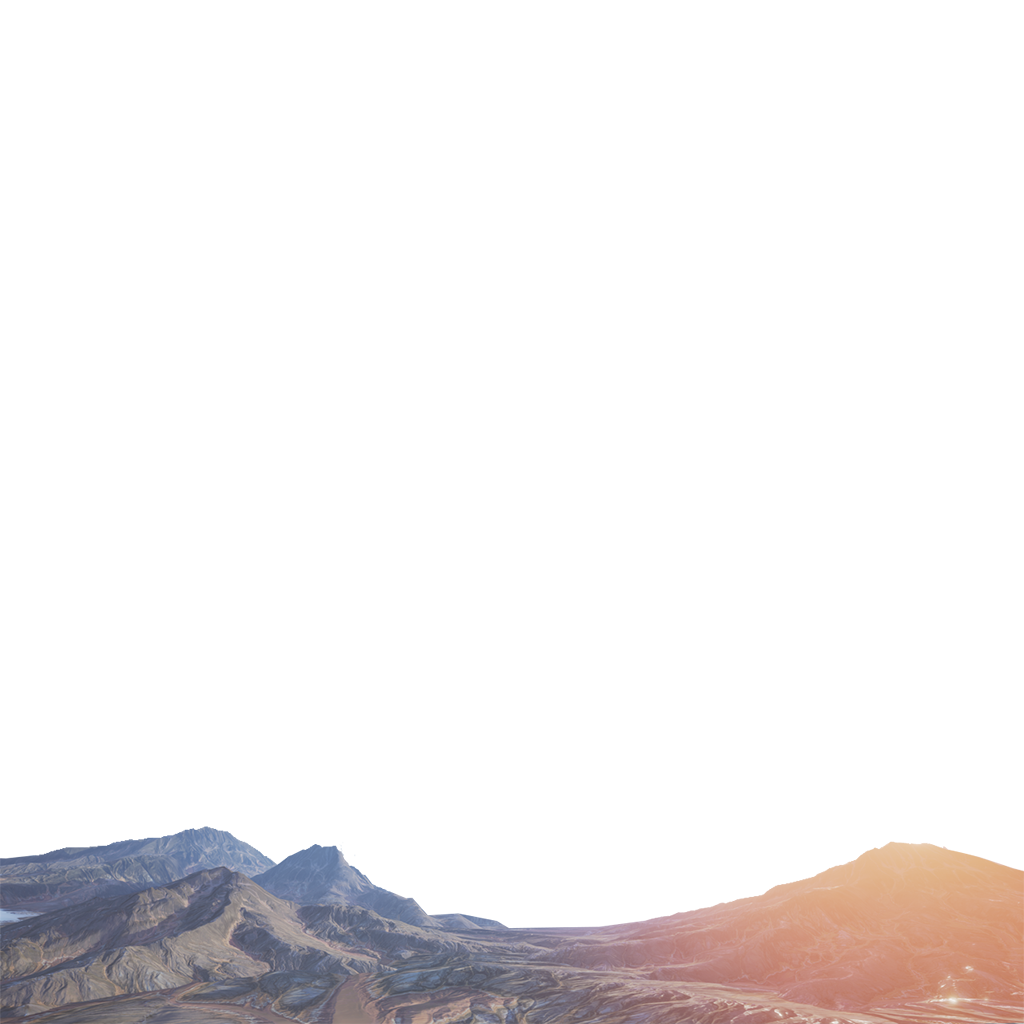
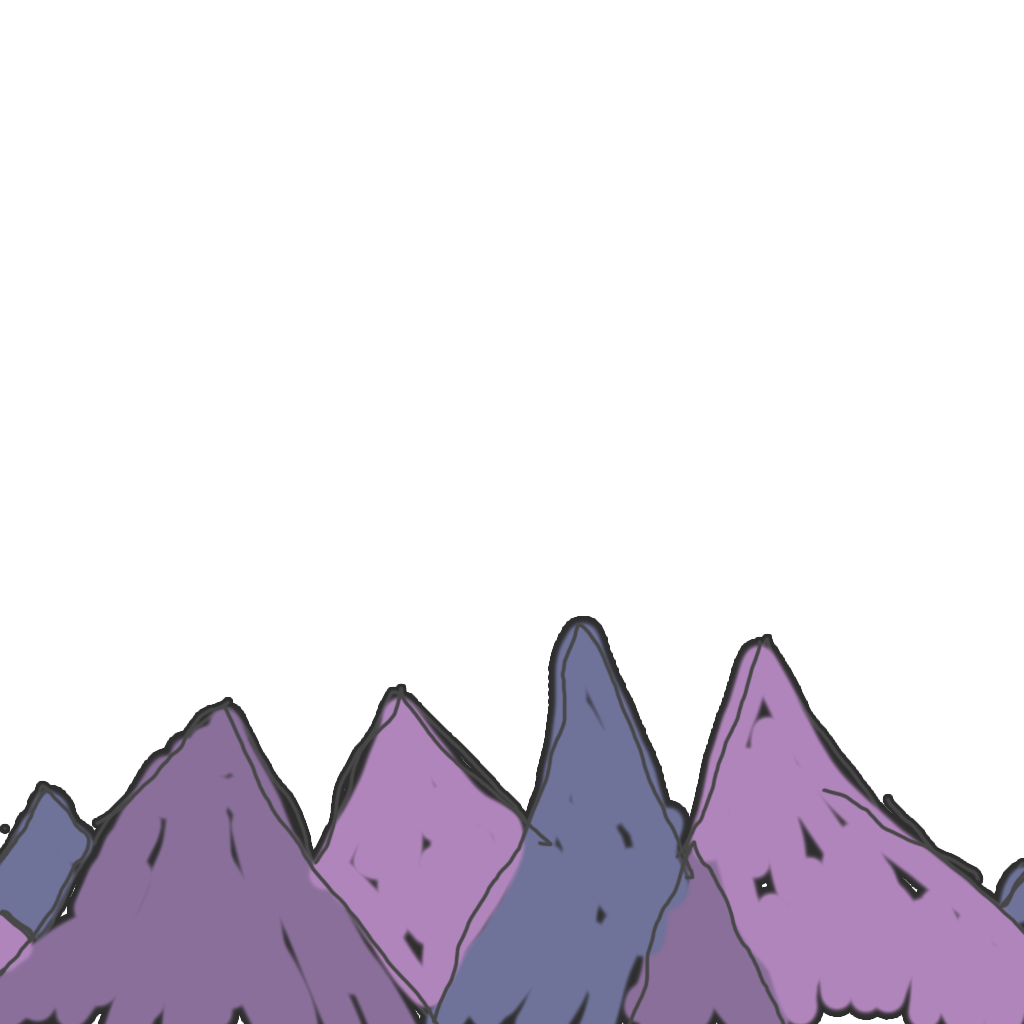
adds clouds, mountains and toilets

Changed region(s): [[0.0, 0.5938, 1.0, 1.0]]

diff --git a/src/objects/background/Background.js b/src/objects/background/Background.js
@@ -1,5 +1,6 @@
 import Sky from './Sky'
 import Mountains from './Mountains'
+import Clouds from './Clouds'
 
 export default class Background extends Phaser.Group {
 
@@ -11,8 +12,8 @@ export default class Background extends Phaser.Group {
         this.add(this.sky);
         this.mountains = new Mountains(this.game);
         this.add(this.mountains);
-
-        this.moveMountains = true;
+        this.clouds = new Clouds(this.game);
+        this.add(this.clouds);
     }
 
 
@@ -22,6 +23,7 @@ export default class Background extends Phaser.Group {
     update()
     {
         this.mountains.update();
+        this.clouds.update();
     }
 
     /**
@@ -30,6 +32,7 @@ export default class Background extends Phaser.Group {
     onPlayerDeathStart()
     {
         this.mountains.move = false;
+        this.clouds.move = false;
     }
 
 }

diff --git a/src/states/Preload.js b/src/states/Preload.js
@@ -28,9 +28,10 @@ export default class Preload extends Phaser.State {
         this.game.load.image('evil_shit', 'image/evil_shit.png');
 
         this.game.load.image('background_sky', 'image/background_sky.jpg');
+        this.game.load.image('background_clouds', 'image/background_clouds_1024.png');
         this.game.load.image('background_mountains', 'image/background_mountains_1024.png');
 
-        this.game.load.image('toilet', 'image/toilet_96x120.png');
+        this.game.load.image('toilet', 'image/toilet_drawn_96x120.png');
         this.game.load.image('toilet_tank', 'image/toilet_tank.png');
         this.game.load.image('toilet_bowl', 'image/toilet_bowl.png');
 

diff --git a/src/objects/background/Clouds.js b/src/objects/background/Clouds.js
@@ -1,0 +1,32 @@
+import {WIDTH, HEIGHT, BACKGROUND_CLOUDS_SPEED} from './../../settings/Settings';
+
+/**
+ *
+ */
+export default class Clouds extends Phaser.TileSprite
+{
+    /**
+     * @param game
+     */
+    constructor(game)
+    {
+        super(game, 0, 0, WIDTH, HEIGHT, 'background_clouds');
+
+        this.tileScale.x = 1;
+        this.tileScale.y = HEIGHT / WIDTH;
+
+        this.fixedToCamera = true;
+        this.move = true;
+    }
+
+    /**
+     *
+     */
+    update()
+    {
+        if (this.move) {
+            this.tilePosition.x += BACKGROUND_CLOUDS_SPEED;
+        }
+    }
+
+}

diff --git a/src/states/Level01.js b/src/states/Level01.js
@@ -343,12 +343,11 @@ export default class GameState extends Phaser.State
             this.obstacles, this.enemies,
             function(obstacle, enemy) {
                 enemy.speed *= -1;
-                enemy.body.velocity.x *= 0.98;
             },
             function(obstacle, enemy) {
                 return enemy.alive;
             }, this
-    );
+        );
 
         // Bullets & Toilets
         this.toilets.forEachExists(
@@ -365,7 +364,6 @@ export default class GameState extends Phaser.State
                 );
             }, this
         );
-
     }
 
     /**

diff --git a/src/objects/enemy/Dick.js b/src/objects/enemy/Dick.js
@@ -33,7 +33,6 @@ export default class Dick extends Enemy {
             return;
         }
 
-        this.game.debug.body(this);
         const desiredAngle = Math.atan2(this.y - this.player.y, this.x - this.player.x) / (Math.PI / 180) - 90;
 
         this.angle += Math.max(-1, Math.min(1, (desiredAngle + 360) - (this.angle + 360)));
@@ -42,7 +41,6 @@ export default class Dick extends Enemy {
 
         this.body.velocity.y = -speed * Math.cos(this.angle * Math.PI / 180);
         this.body.velocity.x = speed / 2 * Math.sin(this.angle * Math.PI / 180);
-
     }
 
 }

diff --git a/src/settings/Settings.js b/src/settings/Settings.js
@@ -26,3 +26,4 @@ export const CAMERA_SPEED = 1;
 export const POINTS_FOR_SHIT_IN_TOILET = 100;
 
 export const BACKGROUND_MOUNTAINS_SPEED = -0.3;
+export const BACKGROUND_CLOUDS_SPEED = -0.4;
